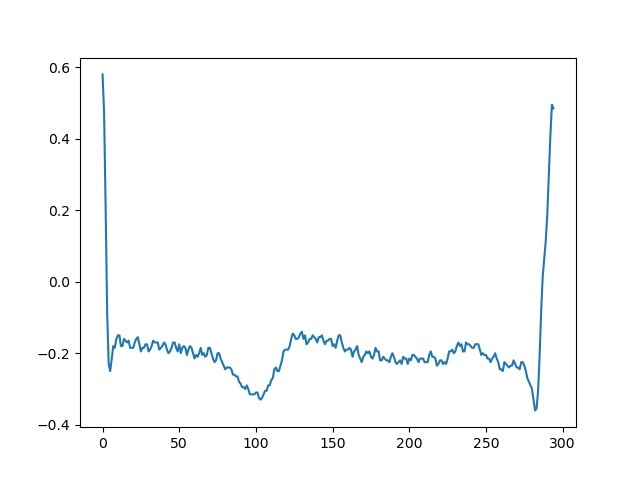
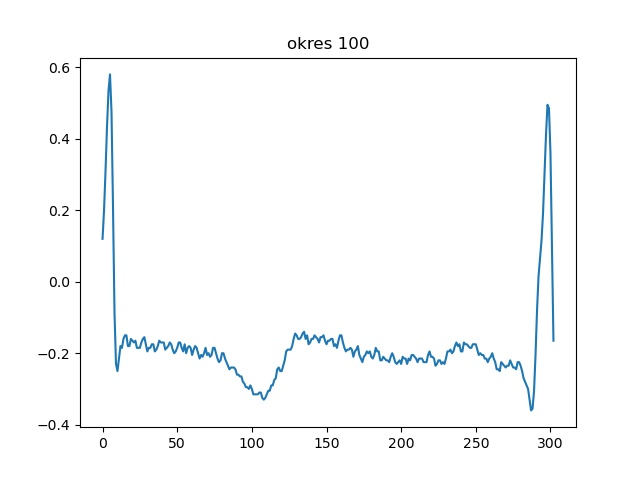
Ekg done

diff --git a/ekg/main.py b/ekg/main.py
@@ -4,55 +4,76 @@ from scipy.signal import find_peaks
 from statistics import variance, stdev
 HZ = 360
 
-data = np.genfromtxt('100_V5.dat',
-                     dtype=float,
-                     delimiter='\n')
-
-# plt.plot(data)
-# plt.show()
-
-# plt.plot(data[:1*HZ])
-# plt.savefig('1sek_100_V5.jpg')
-# plt.close()
-
-# plt.plot(data[:2*HZ])
-# plt.savefig('2sek_100_V5.jpg')
-# plt.close()
-
-
-a = 75
-b = 370
-# plt.plot(data[a:b])
-# plt.savefig('okres_100_V5.jpg')
-# plt.close()
-
-beats_per_min = (HZ / (b - a)) * 60
-print(beats_per_min)
-
-indices, heights = find_peaks(data[:4*HZ], 0.2)
-
-
-peak_heights = []
-for indice in indices:
-    peak_heights.append(data[indice])
-
-# plt.plot(data[:4*HZ])
-# plt.scatter(indices, peak_heights, c='red')
-# plt.show()
-
 
 def window_indices(seq, n=2):
+    # generator okienek o n długości dla danego ciągu:
+    # seq = [1, 2, 3, 4]
+    # assert(list(window_indices(seq, 2)), [(1,2), (2,3), (3,4)])
+
     i = 0
     while i+1 < len(seq):
         yield seq[i:i+n]
         i += 1
 
+
 def distances(seq):
+    # dla listy n peaków produkuje generator n-1 dystansów pomiędzy peakami
     for i, j in window_indices(seq, 2):
         yield j-i
 
-all_peaks_indices, _ = find_peaks(data, 0.2)
 
-print(variance(distances(all_peaks_indices)))
+for patient_id in ('100', '102'):
+    # wczytanie danych
+    data = np.genfromtxt(f'{patient_id}_V5.dat',
+                         dtype=float,
+                         delimiter='\n')
 
-print(stdev(distances(all_peaks_indices)))
+    # prezentacja całości
+    plt.plot(data)
+    plt.show()
+
+    # prezentacja 1 sekundy
+    plt.plot(data[:1*HZ])
+    plt.title(f'1 sek {patient_id}')
+    plt.savefig(f'1sek_{patient_id}_V5.jpg')
+    plt.close()
+
+    # prezentacja 2 sekund
+    plt.plot(data[:2*HZ])
+    plt.title(f'2 sek {patient_id}')
+    plt.savefig(f'2sek_{patient_id}_V5.jpg')
+    plt.close()
+
+    # znalezienie peaków dla 4 sekund
+    indices, heights = find_peaks(data[:4*HZ], 0.42)
+
+    # prezentacja 1 okresu
+    margin = 5
+    a = indices[0]
+    b = indices[1]
+    plt.plot(data[a-margin:b + margin])
+    plt.title(f'okres {patient_id}')
+    plt.savefig(f'okres_{patient_id}_V5.jpg')
+    plt.close()
+
+    # obliczenie rytmu bicia serca z 2 pików
+    beats_per_min = (HZ / (b - a)) * 60
+    print(f'bpm for {patient_id}: {beats_per_min}')
+
+    # pokazanie 4 sekund wraz z peakami
+    peak_heights = [data[indice] for indice in indices]
+    plt.plot(data[:4*HZ])
+    plt.scatter(indices, peak_heights, c='red')
+    plt.show()
+
+    # oblicznie peaków całego przebiegu
+    all_peaks_indices, _ = find_peaks(data, 0.42)
+
+    # średnie tempo bicia serca, wariancja, odchylenie standardowe
+    print(f'mean bpm: {(len(all_peaks_indices)/len(data)) * 60 * 360}')
+
+    print(
+        f'variance for patient {patient_id}: {variance(distances(all_peaks_indices))}')
+
+    print(
+        f'stdev: for patient {patient_id}: {stdev(distances(all_peaks_indices))}')
